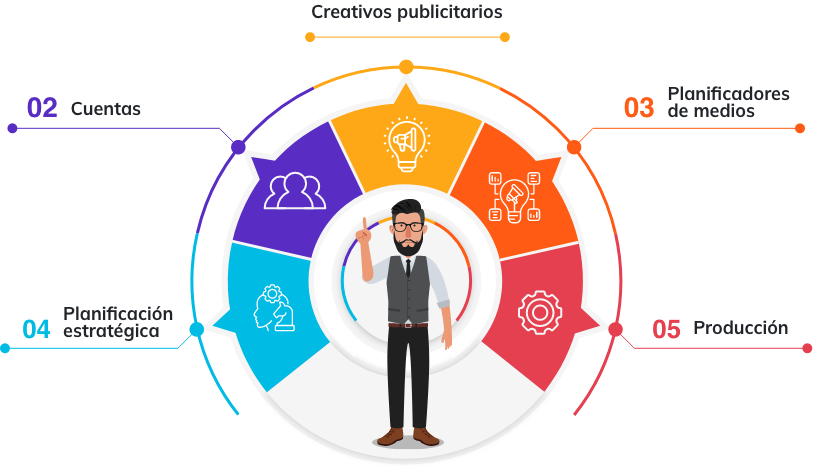
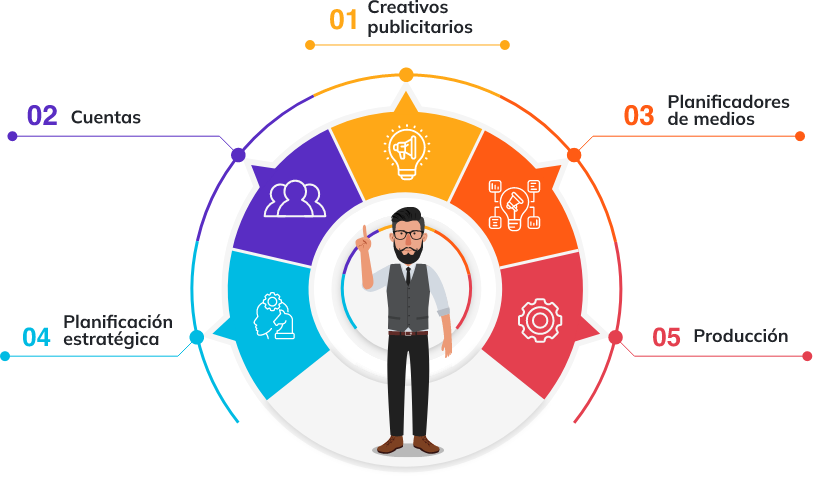
se carga infografía

diff --git a/src/views/curso/Tema1.vue b/src/views/curso/Tema1.vue
@@ -124,30 +124,31 @@
     .bg-full-width.bg-color-info
       .p-4.p-md-5
         .row.justify-content-center.align-items-center.mb-5
-          .col-lg-10
+          .col-lg-auto
             ImagenInfografica.color-secundario
                 template(v-slot:imagen)
                   figure
-                    img(src="@/assets/curso/tema1/info1.svg", alt="", style="max-width: 622px;").mx-auto
+                    img(src="@/assets/curso/tema1/info1.svg", alt="", style="max-width: 812px;").mx-auto
 
-                .bg-color-white.box-shadow.p-3(x="78%" y="30%" numero="1")
-                  h5 Personalización a gran escala
-                  p El avance de la tecnología, particularmente la inteligencia artificial y el análisis de datos, ha permitido a las empresas personalizar sus ofertas y estrategias, de manera masiva. Herramientas como los algoritmos predictivos y las plataformas digitales, facilitan la creación de experiencias únicas que responden a las preferencias individuales del consumidor.
+                .bg-color-white.box-shadow.p-3(x="65%" y="3%" numero="+")
+                  h5 Creativos publicitarios
+                  p Redactores y directores de arte que trabajan en la concepción y diseño de campañas publicitarias. Su función principal es la de transformar el mensaje, en piezas creativas impactantes.
 
-                  p #[b Ejemplo:] Spotify utiliza datos de consumo para crear listas de reproducción personalizadas como “Discover Weekly”, generando una experiencia individualizada que refuerza la lealtad de los usuarios.
+                .bg-color-white.box-shadow.p-3(x="-3%" y="25%" numero="+")
+                  h5 Cuentas
+                  p Actúan como intermediarios entre la agencia y el cliente, garantizando que las expectativas del cliente se traduzcan en resultados concretos. Tienen un papel estratégico y de comunicación.
 
-                .bg-color-white.box-shadow.p-3(x="78%" y="80%" numero="2")
-                  h5 Marketing digital e inmersivo
-
-                  p La integración de plataformas digitales y tecnologías como la realidad virtual y aumentada, ha transformado la forma en que las marcas interactúan con los consumidores. Estas herramientas no solo aumentan el alcance, sino que también generan experiencias inmersivas que impactan emocionalmente.
-
-                  p #[b Ejemplo:] La marca de cosméticos Sephora, utiliza realidad aumentada en su aplicación “Virtual Artist”, lo que permite a los usuarios probar productos de maquillaje en tiempo real, facilitando la decisión de compra.
-
-                .bg-color-white.box-shadow.p-3(x="23%" y="80%" numero="3")
-                  h5 Ética y sostenibilidad
-                  p El marketing contemporáneo también se enfrenta a la presión de adoptar prácticas responsables y sostenibles. Los consumidores modernos valoran la transparencia, el impacto ambiental reducido y los compromisos sociales, por lo que las empresas han comenzado a incluir estos valores en sus estrategias.
-
-                  p #[b Ejemplo:] Patagonia, conocida por su compromiso ambiental, promueve campañas como “Don’t Buy This Jacket”, alentando a los consumidores a considerar la sostenibilidad, antes de realizar una compra
+                .bg-color-white.box-shadow.p-3(x="103%" y="25%" numero="+")
+                  h5 Planificadores de medios
+                  p Se encargan de analizar y seleccionar los medios más adecuados para las campañas, asegurando la máxima efectividad en el alcance del público objetivo.
+                  
+                .bg-color-white.box-shadow.p-3(x="-3%" y="70%" numero="+")
+                  h5 Planificación estratégica
+                  p Este perfil conecta la investigación de mercado con la creatividad, desarrollando estrategias que guíen las campañas hacia el cumplimiento de los objetivos comerciales y de comunicación.
+                  
+                .bg-color-white.box-shadow.p-3(x="103%" y="70%" numero="+")
+                  h5 Producción
+                  p Aseguran que las ideas creativas se ejecuten con calidad, gestionando recursos y tiempos para la entrega final.
                   
 </template>
 
